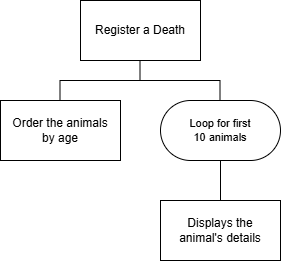
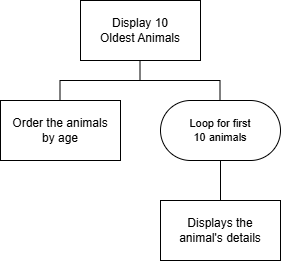
Updated

Changed region(s): [[0.3132, 0.0613, 0.6548, 0.1839]]

diff --git a/ah-cs/sdd/AH-SDD-Animals/index6.md b/ah-cs/sdd/AH-SDD-Animals/index6.md
@@ -60,6 +60,11 @@ Enter choice:
 ![Structure diagram](assets/diagrams/sd2.png)
 
 
+##### Display oldest animal
+
+![Structure diagram](assets/diagrams/sd3.png)
+
+
 ##### Display 10 oldest animals
 
 ![Structure diagram](assets/diagrams/sd4.png)
